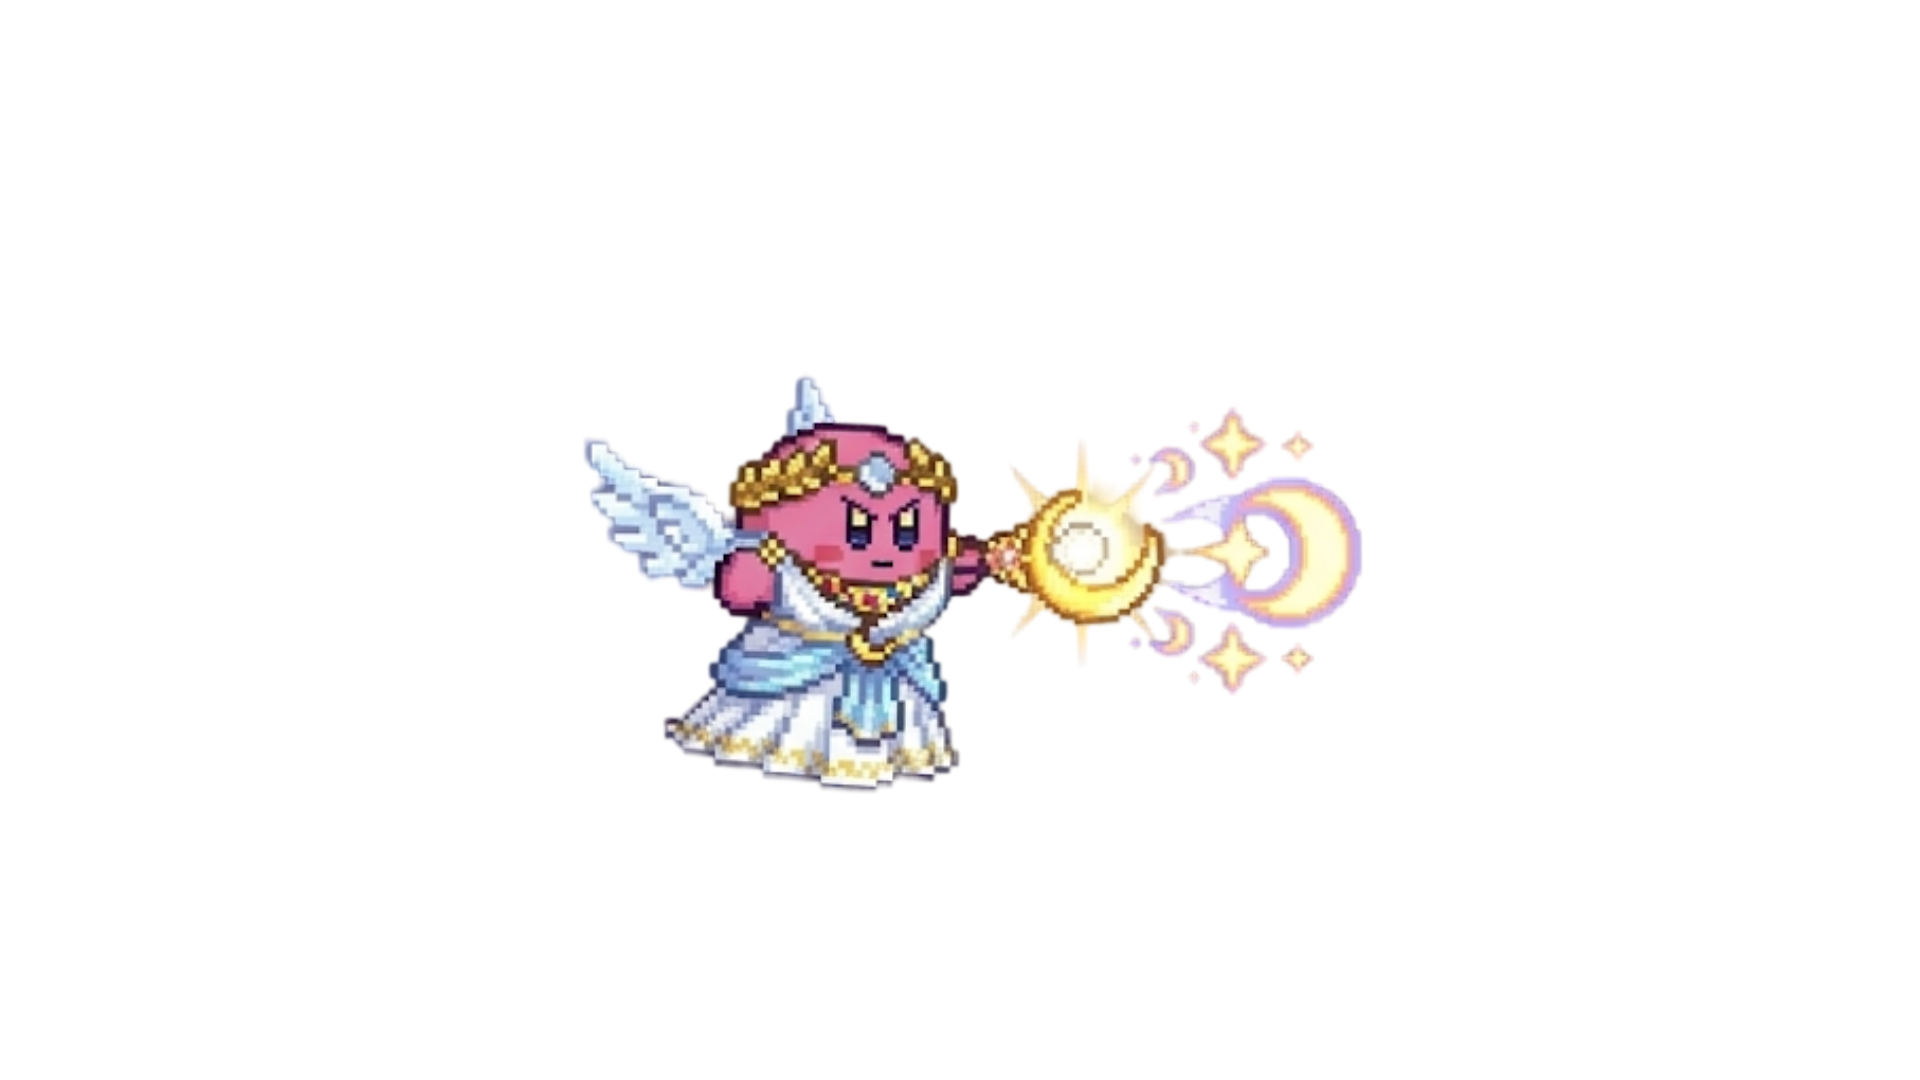
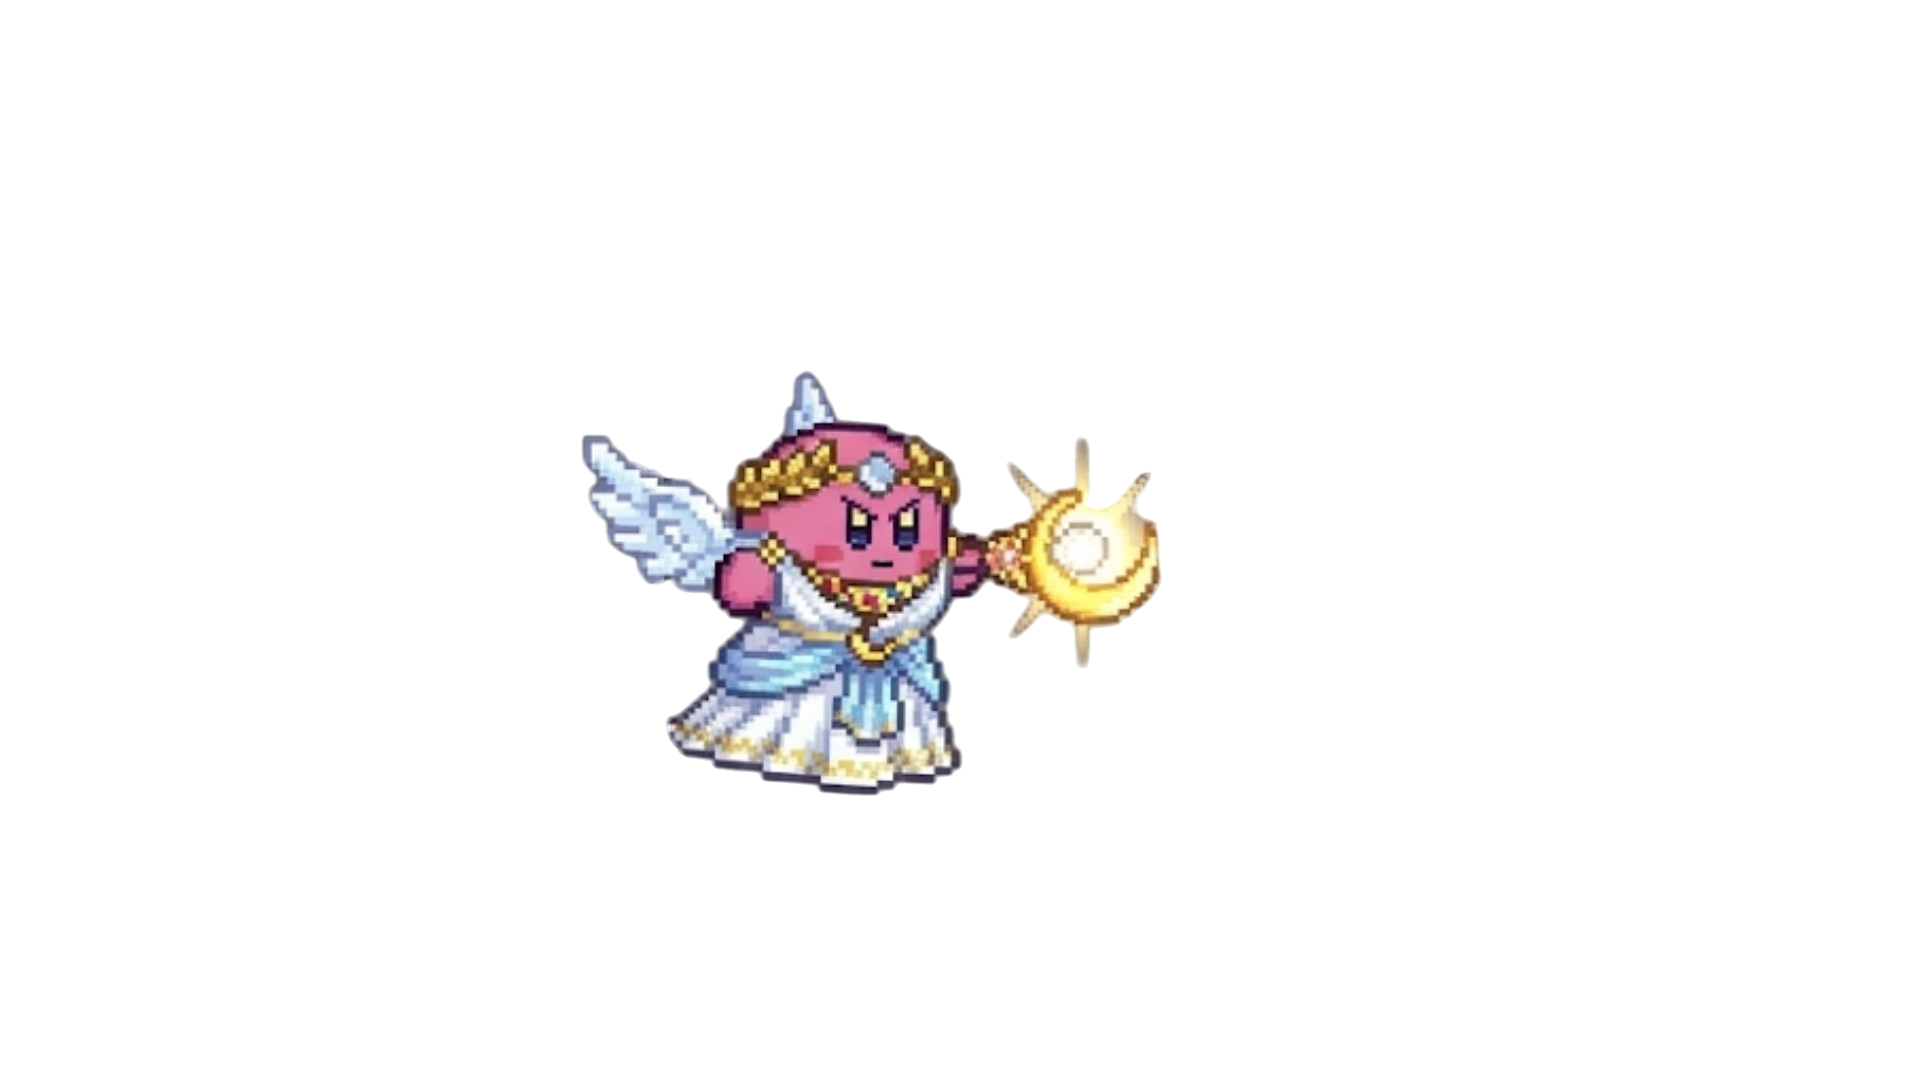
animate the rest of the characters' special moves, and add a new projectile for storm kirby

diff --git a/src/main/java/com/kirbken/models/CharacterAnimationRegistry.java b/src/main/java/com/kirbken/models/CharacterAnimationRegistry.java
@@ -48,10 +48,10 @@ public class CharacterAnimationRegistry {
         REGISTRY.put("kirby_storm", new AnimationSet(
             "/images/thunder.png",
             new String[]{"/images/storm_kirby/run.png"},
+            "/images/storm_kirby/throw2.png",
             "/images/storm_kirby/throw1.png",
             "/images/storm_kirby/special.png",
-            "/images/storm_kirby/special.png",
-            null // TODO: add the thunder image thrown
+            "/images/storm_kirby/power.png"
         ));
 
         REGISTRY.put("kirby_ninja", new AnimationSet(
@@ -67,7 +67,7 @@ public class CharacterAnimationRegistry {
             "/images/sailor.png",
             new String[]{"/images/sailor_kirby/run.png"},
             "/images/sailor_kirby/punch.png",
-            "/images/sailor_kirby/special.png",
+            "/images/sailor_kirby/point.png",
             "/images/sailor_kirby/special.png",
             "/images/sailor_kirby/sparkle.png"
         ));
